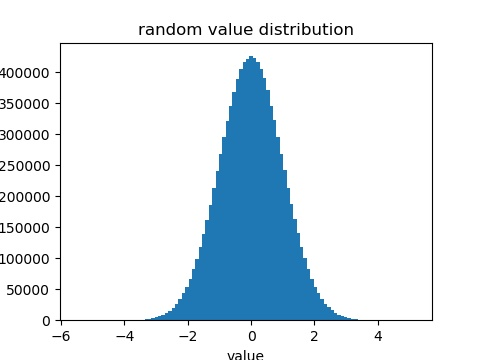
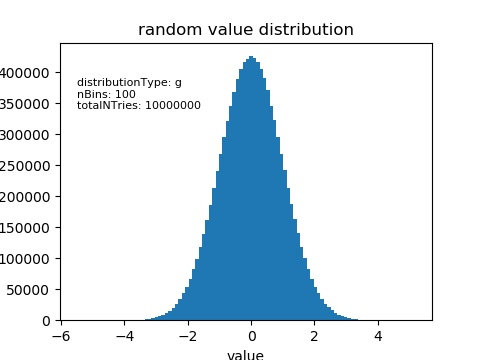
added test + info

Changed region(s): [[0.1562, 0.2139, 0.4375, 0.3056]]

diff --git a/Assignment_01/assignment_01.py b/Assignment_01/assignment_01.py
@@ -11,6 +11,21 @@ for param in lines:
     splitedS = param.split()
     params[splitedS[0]] = splitedS[1]
 
+# checking if all important values are provided
+if 'distributionType' not in params:
+    print('The parameter "distributionType" is missing')
+elif 'nBins' not in params:
+    print('The parameter "nBins" is missing')
+elif 'totalNTries' not in params:
+    print('The parameter "totalNTries" is missing')
+elif 'distributionType' == 'g':
+    if 'widthSDFraction' not in params:
+        print('The parameter "widthSDFraction" is missing')
+    else:
+        pass
+else:
+    pass
+
 # generating random numbers and creating the histogram
 np.random.seed(12424)
 
@@ -31,5 +46,5 @@ plt.hist(bin_edges[:-1], bin_edges, weights=hist)
 plt.xlabel("value")
 plt.ylabel("occurence")
 plt.title("random value distribution")
-plt.savefig('histogram.jpg')
+plt.text(bin_edges[0],0.8 * max(hist),f"distributionType: {params['distributionType']} \nnBins: {params['nBins']} \ntotalNTries: {params['totalNTries']}", fontsize=8)
 plt.show()
